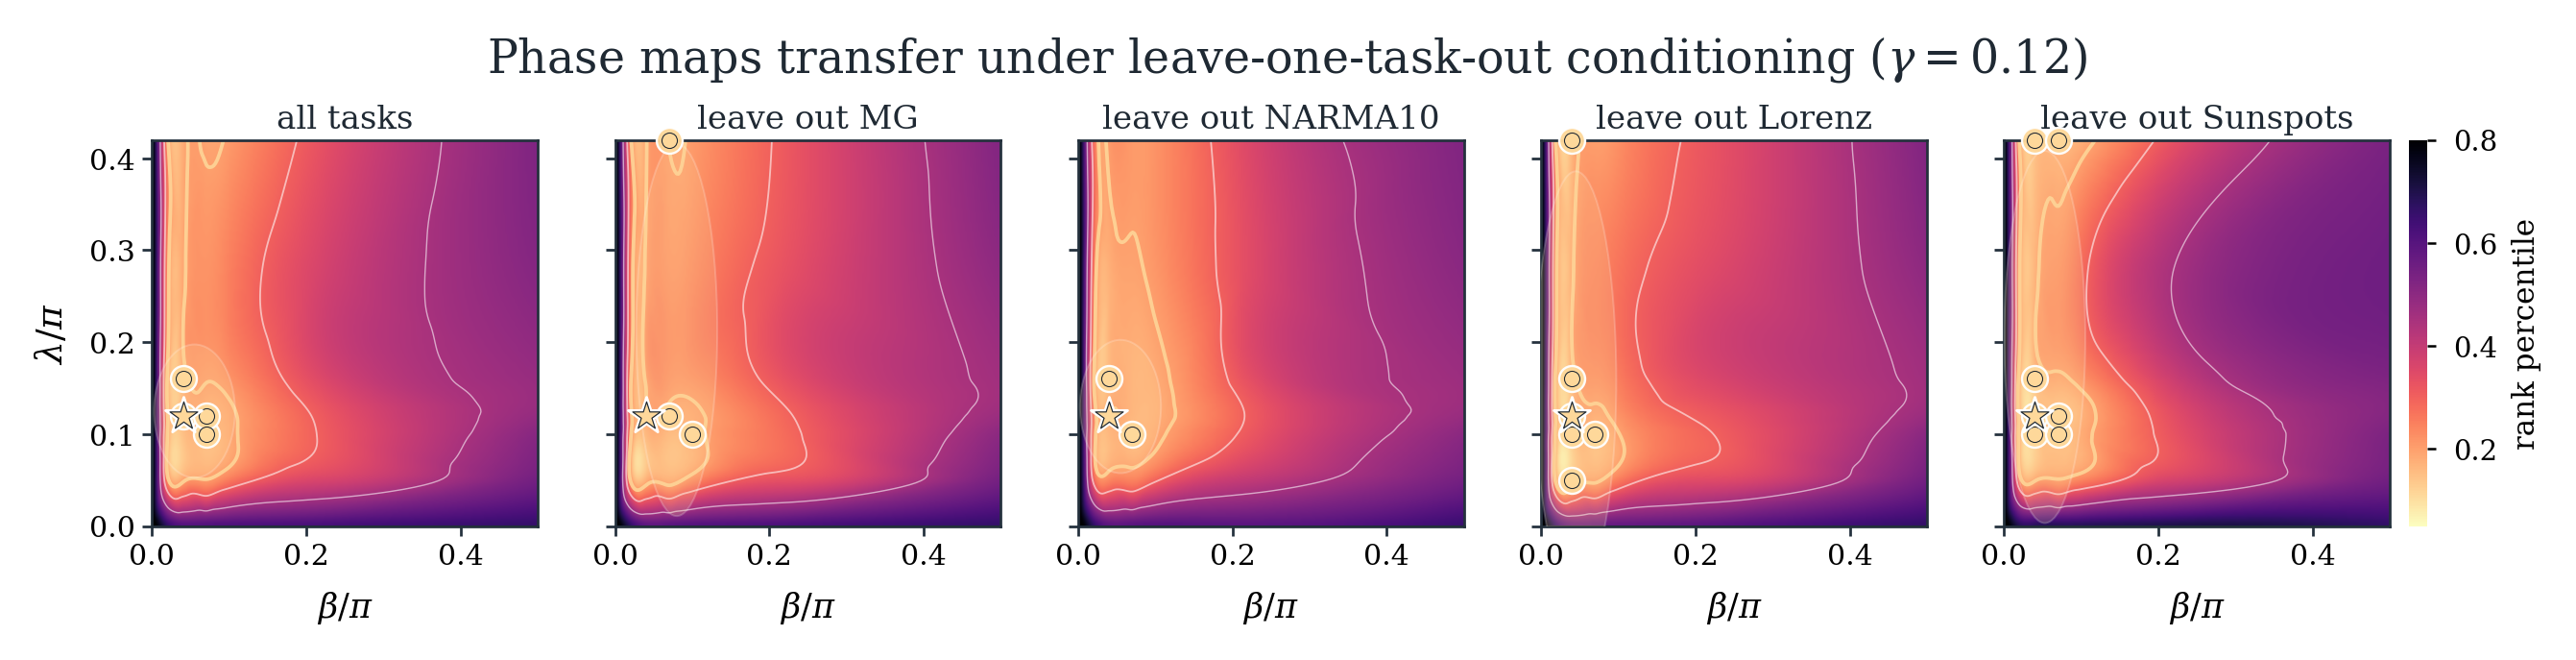
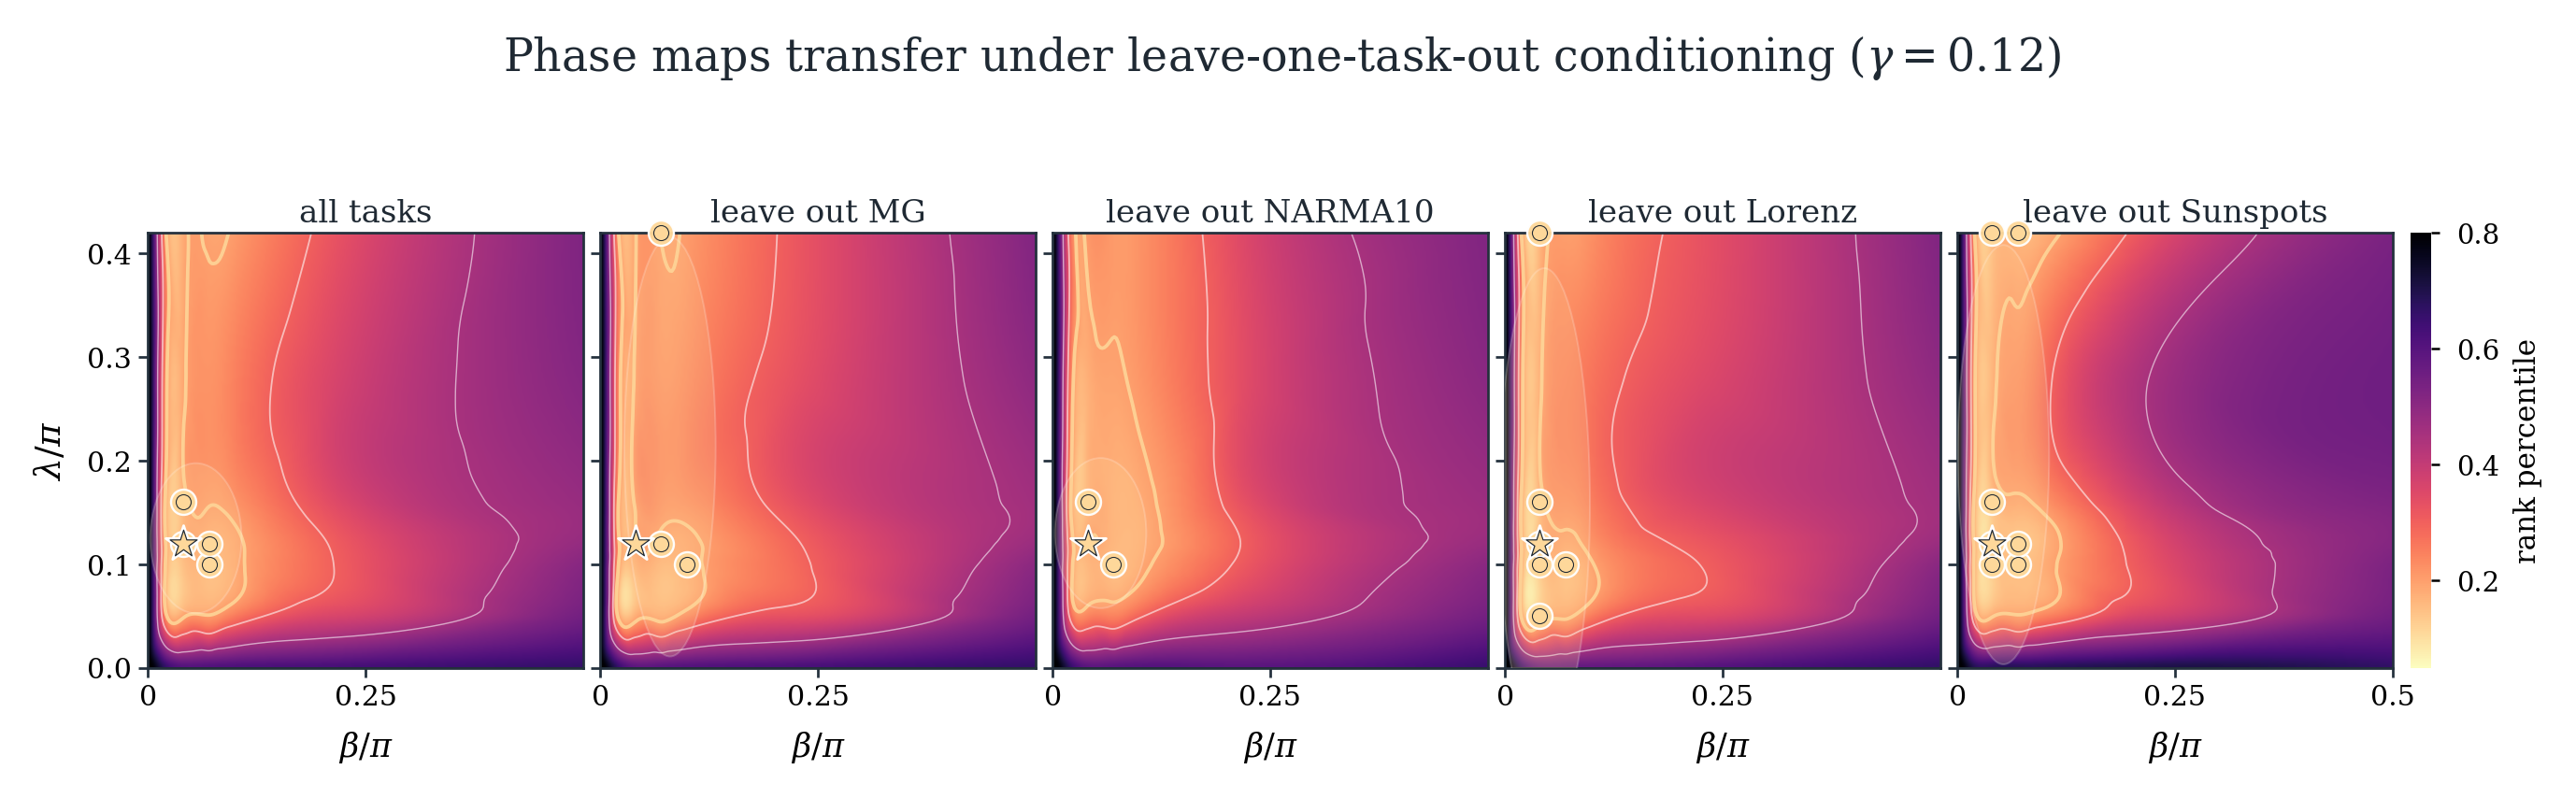
Refine phase and diagnostics figures

diff --git a/scripts/make_figures_and_build_data.py b/scripts/make_figures_and_build_data.py
@@ -10,7 +10,7 @@ matplotlib.use("Agg")
 import matplotlib.pyplot as plt
 import numpy as np
 import pandas as pd
-from matplotlib.patches import ConnectionPatch, Ellipse
+from matplotlib.patches import Ellipse
 from scipy.optimize import curve_fit
 from scipy.interpolate import PchipInterpolator, griddata
 from scipy.stats import spearmanr
@@ -281,17 +281,20 @@ cbar.set_label("rank percentile", fontsize=8.5, labelpad=4)
 cbar.ax.tick_params(labelsize=7.5, length=2.0, width=0.55)
 savefig_dual(fig, "fig1_operating_regime_fixed_gamma")
 
-fig, axes = plt.subplots(1, 5, figsize=(7.25, 1.84), sharex=True, sharey=True)
-for ax, (title, tasks) in zip(axes, panels):
+fig, axes = plt.subplots(1, 5, figsize=(7.25, 2.64), sharey=True)
+for idx, (ax, (title, tasks)) in enumerate(zip(axes, panels)):
     d = qg[qg.task.isin(tasks)].copy()
     core = core_points_at_slice(d)
     im = plot_rank_map(ax, d, title, xmax, ymax, selected=selected, core=core, labelsize=6)
     ax.set_xlabel(r"$\beta/\pi$", fontsize=7)
+    ticks = [0.0, 0.25] if idx < len(axes) - 1 else [0.0, 0.25, 0.5]
+    ax.set_xticks(ticks)
+    ax.set_xticklabels([f"{tick:g}" for tick in ticks])
 axes[0].set_ylabel(r"$\lambda/\pi$", fontsize=7.5)
-fig.subplots_adjust(left=0.047, right=0.940, bottom=0.21, top=0.82, wspace=0.20)
+fig.subplots_adjust(left=0.035, right=0.955, bottom=0.19, top=0.84, wspace=0.04)
 fig.canvas.draw()
 right_box = axes[-1].get_position()
-cax = fig.add_axes([right_box.x1 + 0.0075, right_box.y0, 0.0075, right_box.height])
+cax = fig.add_axes([right_box.x1 + 0.0075, right_box.y0, 0.0085, right_box.height])
 cbar = fig.colorbar(im, cax=cax)
 cbar.outline.set_visible(False)
 cbar.set_ticks([0.2, 0.4, 0.6, 0.8])
@@ -410,56 +413,30 @@ screen = pd.read_csv(DATA / "screening_retention_recomputed_intrinsic_diagnostic
 diag = pd.read_csv(DATA / "qrc_real_current_intrinsic_diagnostics_with_perf.csv")
 diag["logMC"] = np.log1p(diag["MC"])
 spearman = pd.read_csv(DATA / "qrc_real_current_diagnostic_spearman_named.csv")
-fig, axes = plt.subplots(1, 4, figsize=(7.25, 2.10))
+fig, axes = plt.subplots(1, 3, figsize=(7.25, 2.18))
 dead_mc_threshold = 0.1
-dead_mc = diag[diag.MC <= dead_mc_threshold]
 active_mc = diag[diag.MC > dead_mc_threshold]
-dead_pct = 100.0 * len(dead_mc) / len(diag)
-dead_rank = float(dead_mc.mean_val_rank.mean())
-mc_lens_low, mc_lens_high = 0.6, 2.2
-log_lens_low, log_lens_high = np.log1p([mc_lens_low, mc_lens_high])
-axes[0].axvspan(mc_lens_low, mc_lens_high, color=PHASE_GOLD, alpha=0.15, lw=0, zorder=0)
-axes[0].scatter(active_mc.MC, active_mc.mean_val_rank, s=6.5, alpha=0.24, color=PHASE_ROSE, edgecolor="none")
-if len(active_mc):
-    z = np.polyfit(active_mc.MC, active_mc.mean_val_rank, 1)
-    xs = np.linspace(active_mc.MC.min(), active_mc.MC.max(), 200)
-    axes[0].plot(xs, z[0] * xs + z[1], color="black", lw=0.9)
-axes[0].text(
-    0.96,
-    0.93,
-    f"MC <= {dead_mc_threshold:.1f}: {dead_pct:.0f}%" + "\n" + f"mean rank {dead_rank:.2f}",
-    transform=axes[0].transAxes,
-    ha="right",
-    va="top",
-    fontsize=5.9,
-    color=INK,
-    bbox=dict(facecolor="white", edgecolor=PHASE_CORAL, linewidth=0.38, alpha=0.86, pad=1.3),
-)
-axes[0].set_title("(a) memory capacity", fontsize=8.8, pad=3)
-axes[0].set_xlabel("MC", fontsize=7.8)
-axes[0].set_ylabel("validation rank", fontsize=7.8)
-axes[1].scatter(active_mc.logMC, active_mc.mean_val_rank, s=6.5, alpha=0.24, color=PHASE_ROSE, edgecolor="none")
+axes[0].scatter(active_mc.logMC, active_mc.mean_val_rank, s=8.0, alpha=0.26, color=PHASE_ROSE, edgecolor="none")
 z = np.polyfit(active_mc.logMC, active_mc.mean_val_rank, 1)
-xs = np.linspace(active_mc.logMC.min(), active_mc.logMC.max(), 200)
-axes[1].plot(xs, z[0] * xs + z[1], color="black", lw=0.9)
-axes[1].text(0.07, 0.08, "expanded\nview", transform=axes[1].transAxes, ha="left", va="bottom", fontsize=5.8, color=INK, alpha=0.72)
-axes[1].set_title("(b) log-memory lens", fontsize=8.8, pad=3)
-axes[1].set_xlabel(r"$\log(1+\mathrm{MC})$", fontsize=7.8)
-axes[1].set_ylabel("")
+xs = np.linspace(active_mc.logMC.min(), active_mc.logMC.max(), 220)
+axes[0].plot(xs, z[0] * xs + z[1], color="black", lw=1.0)
+axes[0].set_title("(a) log memory", fontsize=8.8, pad=3)
+axes[0].set_xlabel(r"$\log(1+\mathrm{MC})$", fontsize=7.8)
+axes[0].set_ylabel("validation rank", fontsize=7.8)
 sp_order = ["IPCtot", "MC", "IPCmem", "IPCnonlin", "Vfeat", "reff"]
 sp_labels = [r"IPC$_t$", "MC", r"IPC$_m$", r"IPC$_n$", r"$V_f$", r"$r_e$"]
 sp = spearman.set_index("metric").reindex(sp_order)
 sp_y = np.arange(len(sp))[::-1]
 sp_colors = [PHASE_GOLD, PHASE_ROSE, PHASE_CORAL, PHASE_AMBER, PHASE_VIOLET, PHASE_VIOLET]
-axes[2].axvspan(-1.0, 0.0, color=PHASE_CORAL, alpha=0.055, lw=0)
-axes[2].axvspan(0.0, 0.25, color=PHASE_VIOLET, alpha=0.075, lw=0)
-axes[2].axvline(0, color=INK, lw=0.75, alpha=0.90)
+axes[1].axvspan(-1.0, 0.0, color=PHASE_CORAL, alpha=0.055, lw=0)
+axes[1].axvspan(0.0, 0.25, color=PHASE_VIOLET, alpha=0.075, lw=0)
+axes[1].axvline(0, color=INK, lw=0.75, alpha=0.90)
 for yi, label, val, color in zip(sp_y, sp_labels, sp.spearman_vs_val_rank.to_numpy(dtype=float), sp_colors):
-    axes[2].hlines(yi, min(0.0, val), max(0.0, val), color=color, lw=2.0, alpha=0.68, zorder=2)
-    axes[2].scatter([val], [yi], s=24, color=color, edgecolor="white", linewidth=0.5, zorder=3)
-    x_text = val + 0.055 if val < 0 else max(0.045, val - 0.090)
+    axes[1].hlines(yi, min(0.0, val), max(0.0, val), color=color, lw=2.0, alpha=0.68, zorder=2)
+    axes[1].scatter([val], [yi], s=24, color=color, edgecolor="white", linewidth=0.5, zorder=3)
+    x_text = val + 0.055 if val < 0 else 0.045
     ha = "left" if val < 0 else "right"
-    axes[2].text(
+    axes[1].text(
         x_text,
         yi,
         f"{val:.2f}",
@@ -469,26 +446,26 @@ for yi, label, val, color in zip(sp_y, sp_labels, sp.spearman_vs_val_rank.to_num
         color=INK,
         bbox=dict(facecolor="white", edgecolor="none", alpha=0.66, pad=0.2),
     )
-axes[2].set_yticks(sp_y, sp_labels)
-axes[2].set_xlim(-1.0, 0.24)
-axes[2].set_xticks([-1.0, -0.5, 0.0])
-axes[2].set_ylim(-0.65, len(sp) - 0.35)
-axes[2].set_title("(c) diagnostic rank", fontsize=8.8, pad=3)
-axes[2].set_xlabel(r"Spearman $\rho_s$", fontsize=7.8)
+axes[1].set_yticks(sp_y, sp_labels)
+axes[1].set_xlim(-1.0, 0.24)
+axes[1].set_xticks([-1.0, -0.5, 0.0])
+axes[1].set_ylim(-0.65, len(sp) - 0.35)
+axes[1].set_title("(b) diagnostic rank", fontsize=8.8, pad=3)
+axes[1].set_xlabel(r"Spearman $\rho_s$", fontsize=7.8)
 screen_x = screen["budget_pct"].to_numpy(dtype=float)
 for col, color in [("IPCtot", PHASE_GOLD), ("MC", PHASE_ROSE), ("Vfeat", PHASE_VIOLET), ("random", "#9ca3af")]:
     screen_y = np.maximum.accumulate(screen[col].to_numpy(dtype=float))
     if col == "random":
-        axes[3].plot(screen_x, screen_y, label=col, color=color, lw=1.15)
+        axes[2].plot(screen_x, screen_y, label=col, color=color, lw=1.15)
     else:
         screen_dense, smooth_y = smooth_retention_curve(screen_x, screen_y)
-        axes[3].plot(screen_dense, smooth_y, label=col, color=color, lw=1.65, solid_capstyle="round")
-axes[3].set_title("(d) screening retention", fontsize=8.8, pad=3)
-axes[3].set_xlabel("budget (%)", fontsize=7.8)
-axes[3].set_ylabel("retained (%)", fontsize=7.8)
-axes[3].set_xlim(5, 100)
-axes[3].set_ylim(-4, 104)
-axes[3].legend(
+        axes[2].plot(screen_dense, smooth_y, label=col, color=color, lw=1.65, solid_capstyle="round")
+axes[2].set_title("(c) screening retention", fontsize=8.8, pad=3)
+axes[2].set_xlabel("budget (%)", fontsize=7.8)
+axes[2].set_ylabel("retained (%)", fontsize=7.8)
+axes[2].set_xlim(5, 100)
+axes[2].set_ylim(-4, 104)
+axes[2].legend(
     frameon=False,
     fontsize=6.9,
     loc="lower right",
@@ -497,7 +474,7 @@ axes[3].legend(
     borderaxespad=0.0,
 )
 for i, ax in enumerate(axes):
-    if i == 2:
+    if i == 1:
         ax.xaxis.grid(True, color=GRID, linewidth=0.40, alpha=0.55)
         ax.yaxis.grid(False)
     else:
@@ -505,23 +482,6 @@ for i, ax in enumerate(axes):
     ax.spines[["top", "right"]].set_visible(False)
     ax.tick_params(labelsize=6.8, length=2.0, width=0.55, pad=1.5)
 fig.tight_layout(w_pad=0.95)
-fig.canvas.draw()
-connector = ConnectionPatch(
-    xyA=(0.96, 0.78),
-    xyB=(0.04, 0.78),
-    coordsA="axes fraction",
-    coordsB="axes fraction",
-    axesA=axes[0],
-    axesB=axes[1],
-    arrowstyle="-|>",
-    mutation_scale=9,
-    connectionstyle="arc3,rad=0.05",
-    color=PHASE_GOLD,
-    linewidth=0.9,
-    alpha=0.82,
-    clip_on=False,
-)
-fig.add_artist(connector)
 savefig_dual(fig, "fig3_memory_capacity_screens")
 
 summary = {

diff --git a/paper/qrc_phase_diagram.tex b/paper/qrc_phase_diagram.tex
@@ -91,7 +91,7 @@ Diagnostics & Memory capacity and intrinsic processing capacities are computed f
 
 \begin{figure*}[t!]
 \centering
-\includegraphics[width=0.98\textwidth]{gfx/fig1_short_phase_maps.pdf}
+\makebox[\textwidth][c]{\includegraphics[width=1.12\textwidth]{gfx/fig1_short_phase_maps.pdf}}
 \caption{Validation phase maps at the fixed $\gamma=0.12$ slice. Bright regions are low validation percentile rank. Gold circles mark points that appear in the top-20\% for at least 70\% of the displayed task-seed replicates; the star is the medoid of the primary band. The same low-input, nonmaximal-coupling region persists under leave-one-task-out conditioning.}
 \label{fig:phase}
 \end{figure*}
@@ -136,7 +136,7 @@ Variant & Band pts. & Retention & Rank on base band\\
 \begin{figure*}[t!]
 \centering
 \includegraphics[width=0.98\textwidth]{gfx/fig3_memory_capacity_screens.pdf}
-\caption{Diagnostic audit for the QRC phase-map claim. Raw memory capacity shows the physical scale of retained history; panel (b) is not a separate diagnostic but a log-scale lens of panel (a) that expands the compressed low-to-mid-memory regime, with the shaded band in (a) and the arrow indicating the transformation. The zero/near-zero memory cluster is aggregated in the panel annotation. Intrinsic processing-capacity diagnostics give the strongest rank correlations, and smooth monotone guides fitted to the empirical screening table show that memory/IPC recovers useful reservoirs earlier than random or diversity-only screens.}
+\caption{Diagnostic audit for the QRC phase-map claim. A single log-memory panel expands the non-collapsed memory range and shows the strong monotone relation between retained history and validation rank. Intrinsic processing-capacity diagnostics give the strongest rank correlations, and smooth monotone guides fitted to the empirical screening table show that memory/IPC recovers useful reservoirs earlier than random or diversity-only screens.}
 \label{fig:diagnostics}
 \end{figure*}
 